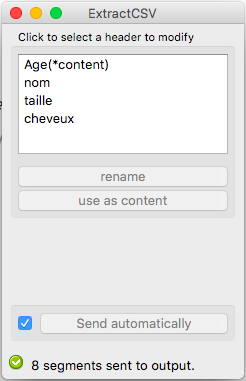
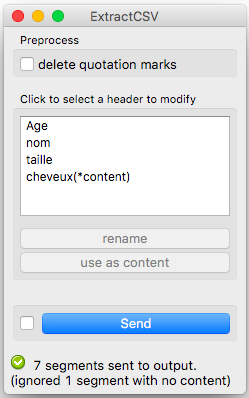
doc + tuto

Changed region(s): [[0.0, 0.0, 0.9959, 1.0], [0.0569, 0.1444, 0.939, 0.5486], [0.313, 0.5774, 0.6829, 0.6929]]

diff --git a/doc/widgets/extractCSV.rst b/doc/widgets/extractCSV.rst
@@ -43,6 +43,8 @@ Interface
 
 Extract CSV displays a list of the file's headers and lets the user choose which one to use as content for the segmentation with the **Use as Content** button. If the file has no header it will simply display the number of the column.
 
+Quotation marks usually cause problems with detecting the segment position. If the file has quotes, the user can choose to preprocess his file with the checkbox **delete quotation marks**.
+
 .. _fig1:
 
 .. figure:: figures/extractCSV_interface.png
@@ -52,6 +54,14 @@ Extract CSV displays a list of the file's headers and lets the user choose which
     Figure 1: **Extract CSV** widget
 
 The **Rename** button allows the user to rename the headers.
+
+.. _fig2:
+
+.. figure:: figures/extractCSV_options.png
+    :align: center
+    :alt: Options of Extract CSV
+
+    Figure 2: **Extract CSV** widget
 
 The **Info** section indicates the number of segments in the
 output segmentation, or if any segment has been ignored because of a missing content.
@@ -68,7 +78,7 @@ Messages
 Information
 ~~~~~~~~~~~
 
-*<n> segments sent to output.*
+*<n> segments analyzed.*
     This confirms that the widget has operated properly.
 *<n> segments sent to output. (Ignored <n> segments with no content)*
     Informs the user if segments were ignored.
@@ -82,6 +92,5 @@ Warnings
     has not been selected, so the user is prompted to click the **Send**
     button (or equivalently check the box) in order for computation and data
     emission to proceed.
-
-
+    
 
